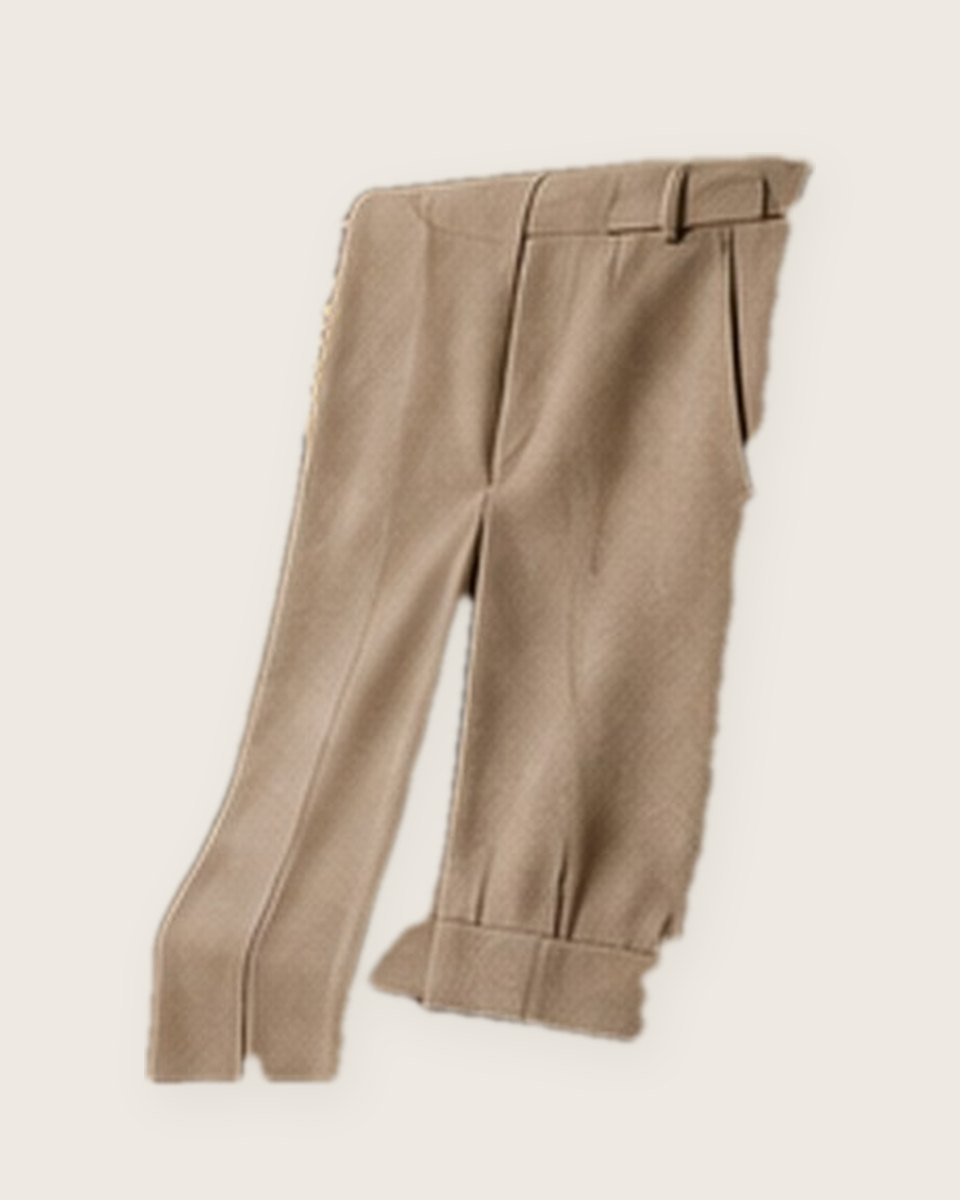
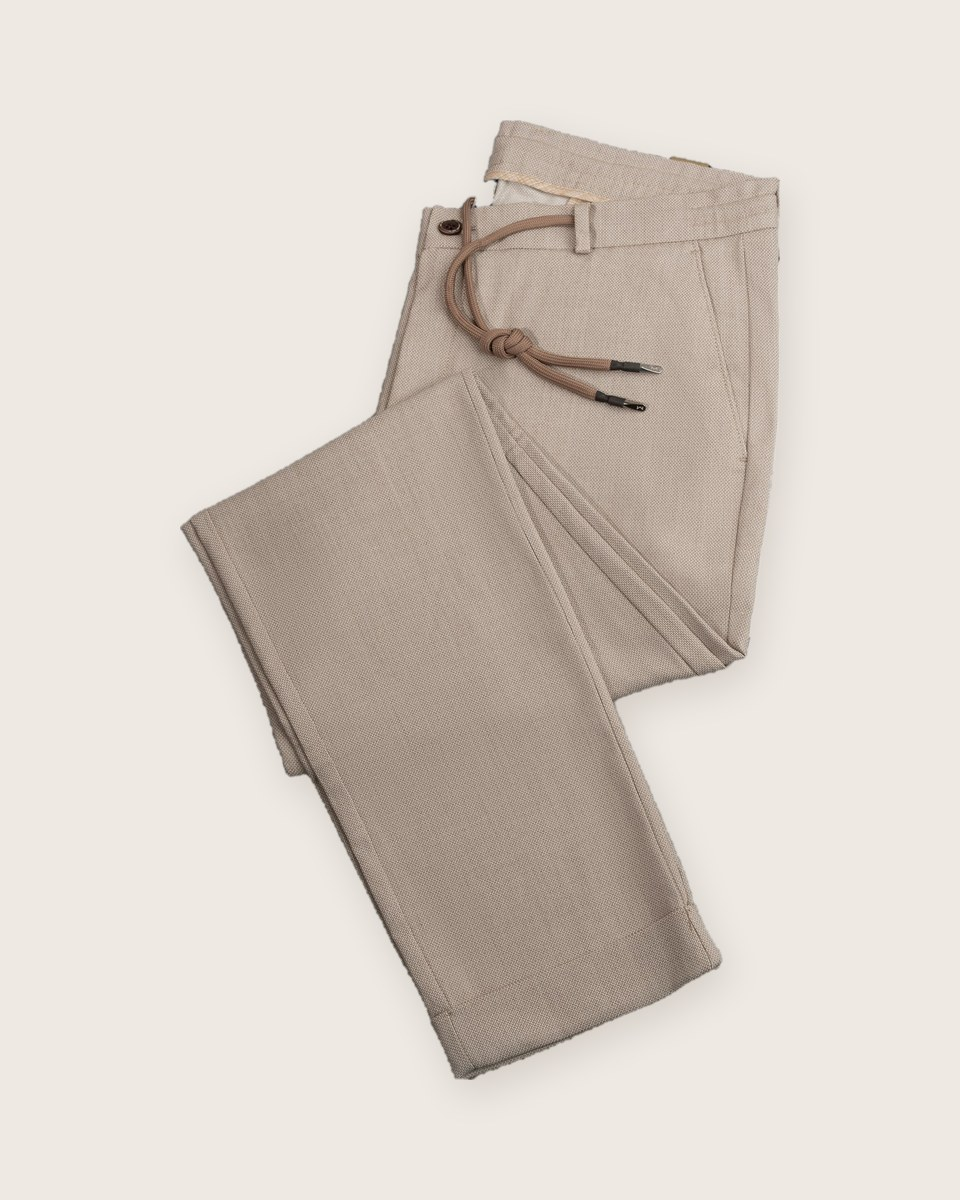
feat(loja): cria a categoria Calças e troca a foto da Calça Torino
A Calça Torino sai de Alfaiataria e vai para a nova categoria Calças,
que aparece sozinha no menu de pronta-entrega e no filtro do catálogo
(tamanhos 38 a 44, cores Areia e Marinho). O packshot antigo tinha
recorte serrilhado e cortava as pernas; o novo mostra a calça inteira,
dobrada, no mesmo fundo areia com sombra suave dos outros produtos. A
chave do estado salvo na aba sobe para v3, para quem estava com o site
aberto ver a categoria nova.

Changed region(s): [[0.125, 0.0925, 0.8438, 0.925]]

diff --git a/src/lib/dados.ts b/src/lib/dados.ts
@@ -218,7 +218,7 @@ function p(
 export const produtosIniciais: Produto[] = [
   p("CL-0101", "Camisa de Linho Ravena", "Camisaria", 389, [14, 9, 6]),
   p("CL-0102", "Camisa Oxford Bianca", "Camisaria", 329, [0, 0, 0]),
-  p("CL-0203", "Calça Alfaiataria Torino", "Alfaiataria", 649, [8, 3, 11]),
+  p("CL-0203", "Calça Alfaiataria Torino", "Calças", 649, [8, 3, 11]),
   p("CL-0204", "Blazer Estruturado Modena", "Alfaiataria", 1290, [2, 1, 0], [5, 5, 5]),
   p("CL-0305", "Vestido Midi Amalfi", "Vestidos", 899, [7, 12, 5]),
   p("CL-0306", "Vestido Slip Verona", "Vestidos", 749, [0, 0, 0]),
@@ -842,6 +842,7 @@ export const registrosImportacao: RegistroImportacao[] = [
 export const tamanhosPorCategoria: Record<string, string[]> = {
   Camisaria: ["P", "M", "G", "GG"],
   Alfaiataria: ["38", "40", "42", "44"],
+  Calças: ["38", "40", "42", "44"],
   Vestidos: ["P", "M", "G"],
   Malharia: ["P", "M", "G", "GG"],
   Outerwear: ["P", "M", "G"],
@@ -858,6 +859,10 @@ export const coresPorCategoria: Record<string, { nome: string; hex: string }[]> 
   ],
   Alfaiataria: [
     { nome: "Grafite", hex: "#4a4d52" },
+    { nome: "Marinho", hex: "#1f2f4f" },
+  ],
+  Calças: [
+    { nome: "Areia", hex: "#d9c8a9" },
     { nome: "Marinho", hex: "#1f2f4f" },
   ],
   Vestidos: [

diff --git a/src/lib/store.ts b/src/lib/store.ts
@@ -54,7 +54,7 @@ const estado: Estado = {
 };
 
 // O estado sobrevive ao recarregar a página enquanto a aba estiver aberta.
-const CHAVE = "casa-lorenzi:estado:v2";
+const CHAVE = "casa-lorenzi:estado:v3";
 
 try {
   const salvo = sessionStorage.getItem(CHAVE);
